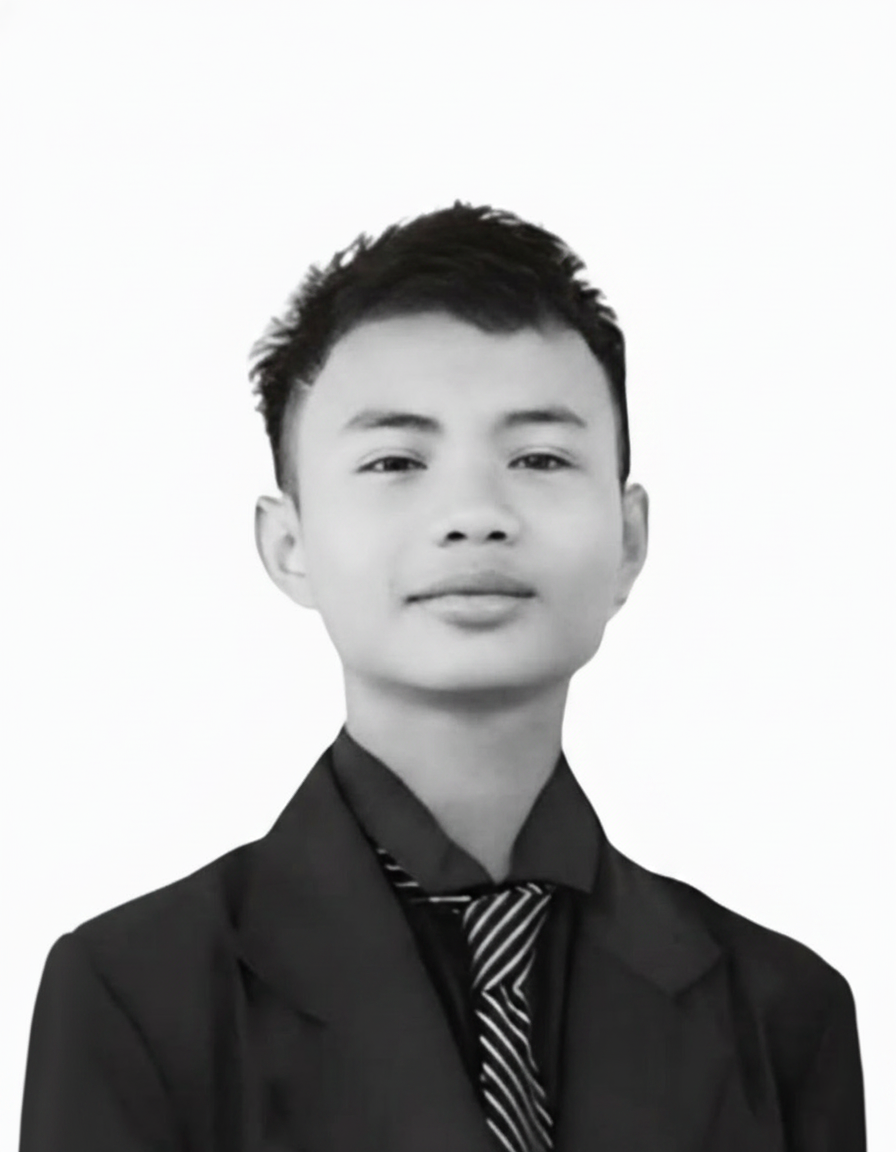
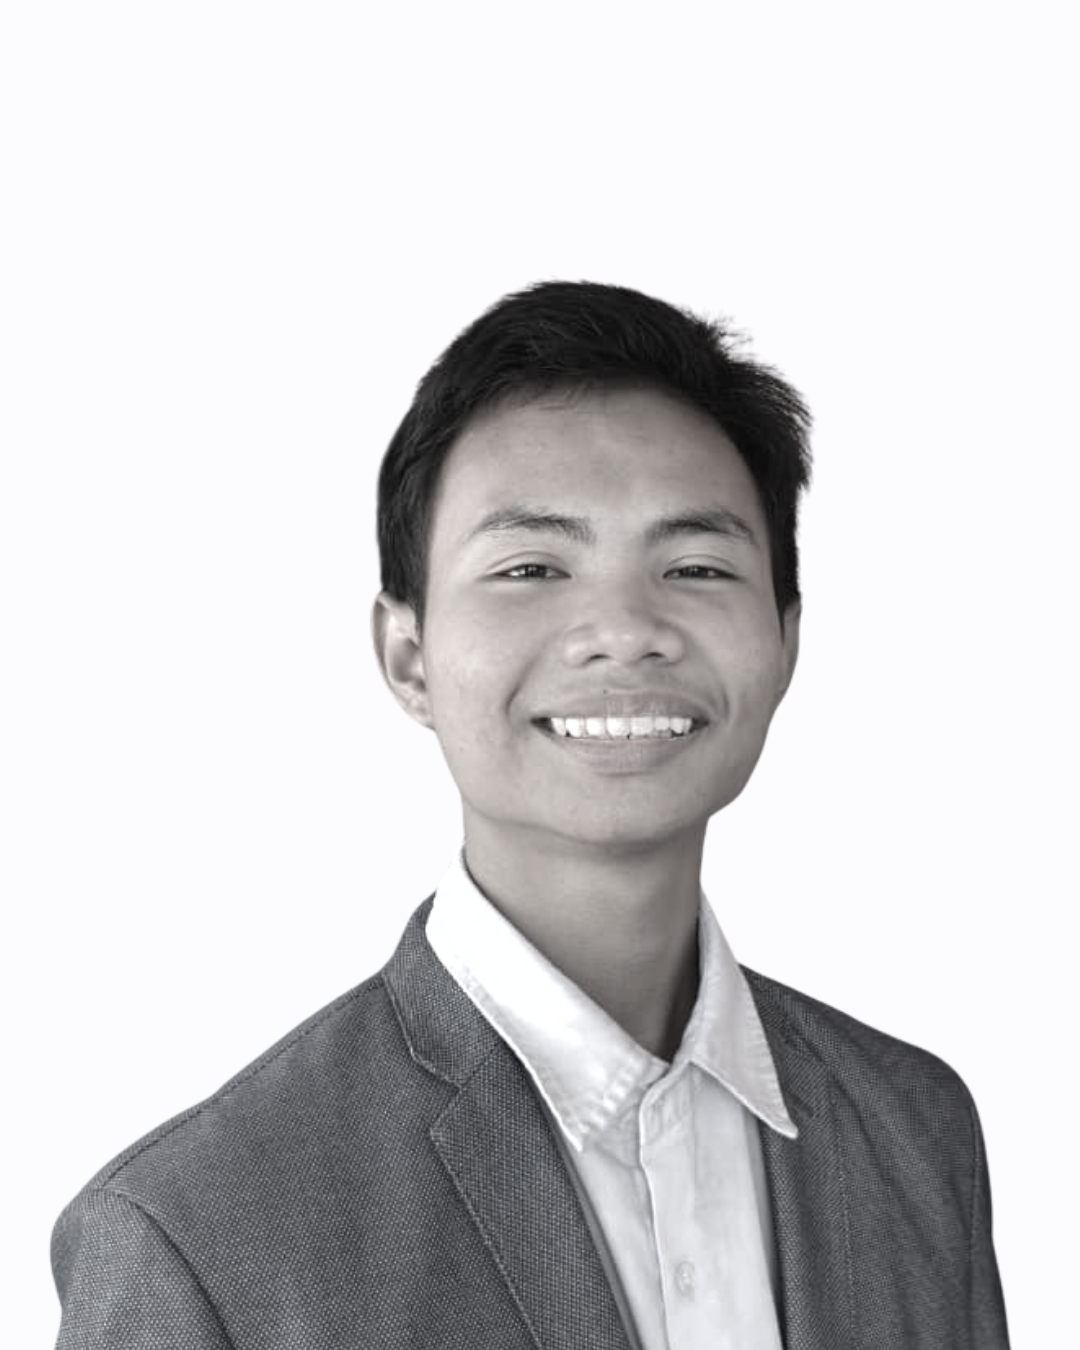
profile changed

diff --git a/components/home/ServicesOverview.jsx b/components/home/ServicesOverview.jsx
@@ -6,21 +6,21 @@ const services = [
     icon: Palette,
     title: "Graphic Design & Identity",
     description:
-      "Branding, identitas visual, dan aset kreatif yang memperkuat citra merek Anda.",
+      "We create visual identities and graphic communications that are not only aesthetically pleasing but also strategically designed to strengthen your brand’s position in the eyes of your B2B target market.",
     href: "/services/graphic-design",
   },
   {
     icon: Globe,
     title: "Web Development",
     description:
-      "Website dan aplikasi web modern yang cepat, responsif, dan siap scale.",
+      "Using modern AI-powered web development methods (vibe-coding), we build adaptive, secure, and high-performance websites and web applications with significantly more efficient development times without compromising quality.",
     href: "/services/web-development",
   },
   {
     icon: Bot,
     title: "AI Automation",
     description:
-      "Otomasi cerdas untuk menyederhanakan workflow dan meningkatkan produktivitas.",
+      "We design and integrate artificial intelligence (AI)-based automation systems into your business workflows. From data management automation to customer response systems, we eliminate time-consuming manual processes so your team can focus on growth strategies.",
     href: "/services/ai-automation",
   },
 ];

diff --git a/components/home/ValueProposition.jsx b/components/home/ValueProposition.jsx
@@ -8,13 +8,13 @@ const propositions = [
   },
   {
     icon: Sparkles,
-    title: "Modern Design & Functionality",
+    title: "User-Centric & Functionality",
     description: "Work that is not only visually stunning, but also delivers an optimal user experience.",
   },
   {
     icon: ArrowUpRight,
-    title: "The Right Technology",
-    description: "Using the latest tech stack that fits your needs, not just following trends.",
+    title: "Efficiency & Speed of Execution",
+    description: "Streamline development and production timelines through the integration of AI-based technology to ensure your business launches faster while meeting the highest industry standards.",
   },
 ];
 
